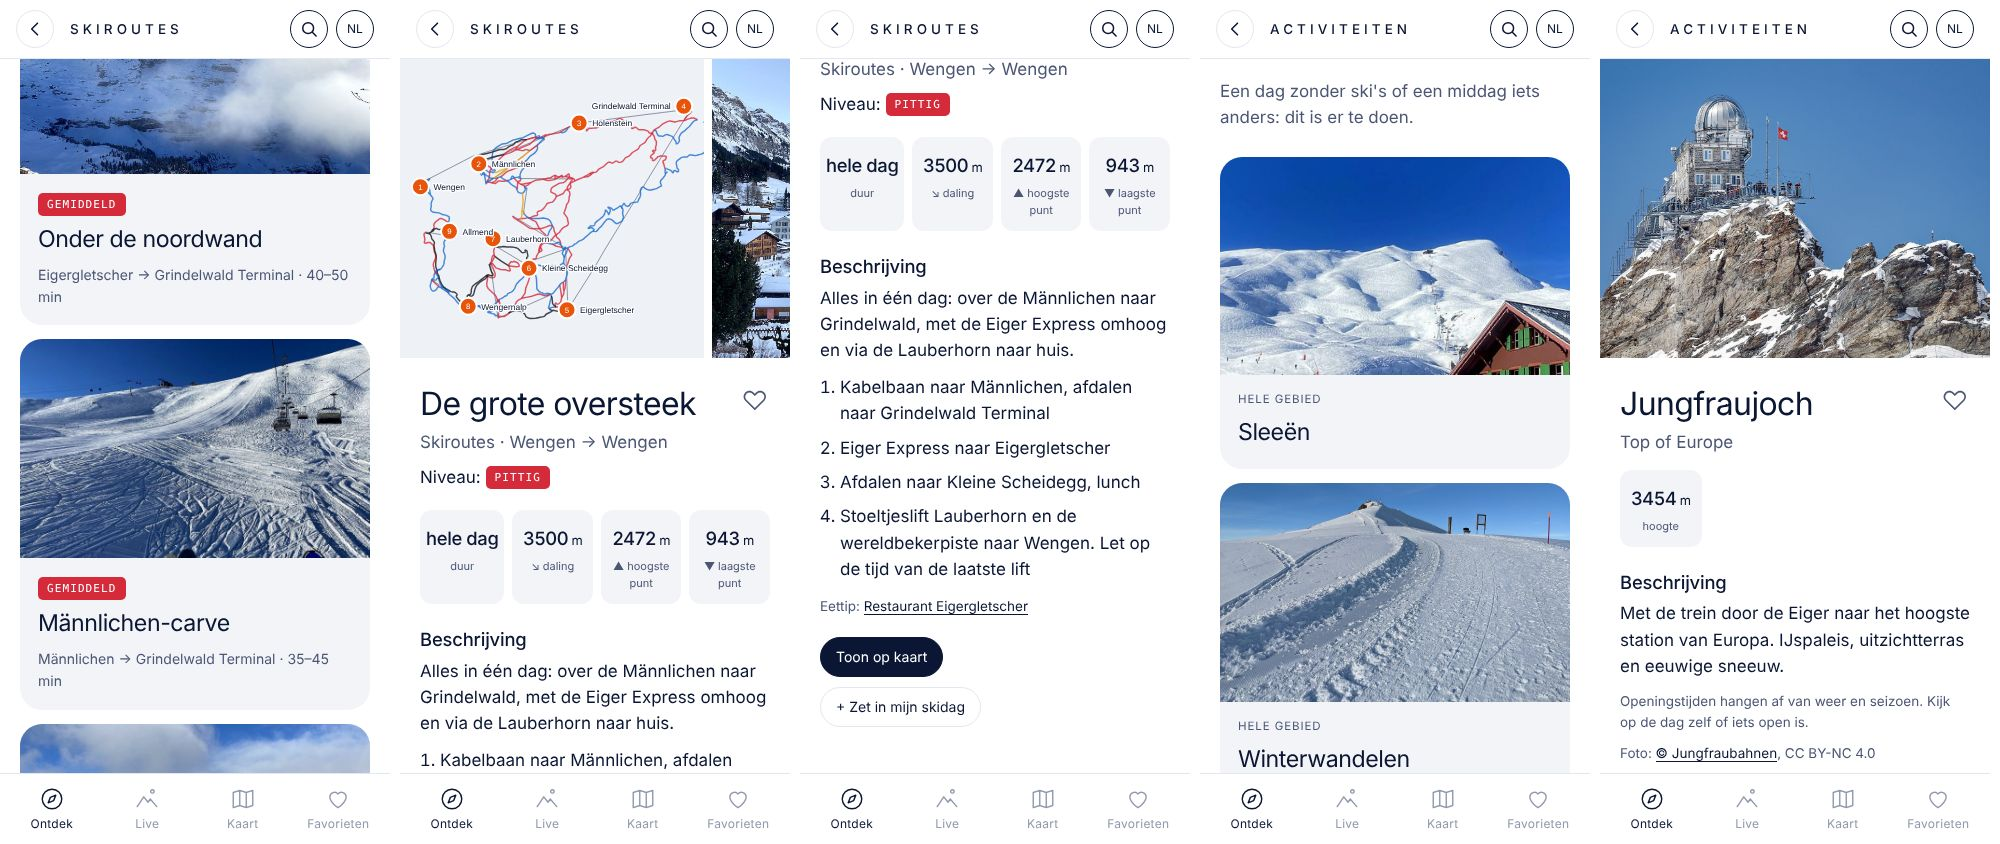
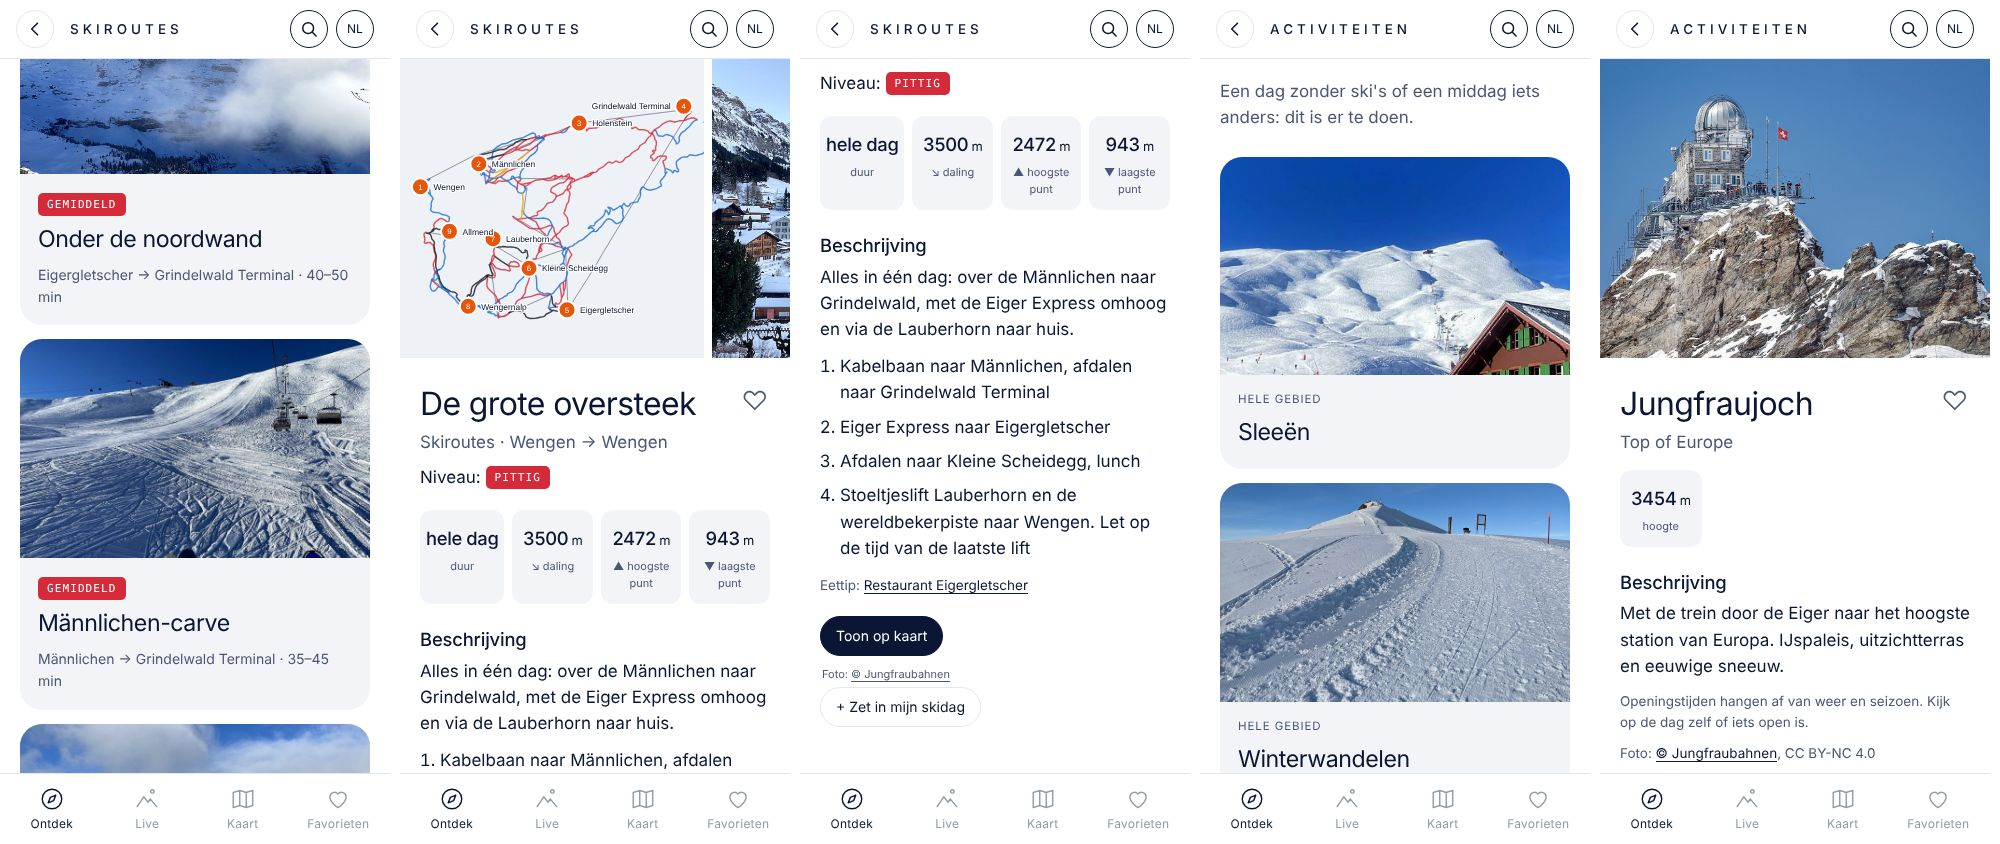
Routefoto's uit de beeldbank van de Jungfraubahnen (© Jungfraubahnen, CC BY-NC 4.0)
Claude-Session: https://claude.ai/code/session_01BKK4JeDJLrK7vcsz3SwdsN

Changed region(s): [[0.403, 0.2773, 0.589, 0.8318], [0.403, 0.0616, 0.589, 0.2464]]

diff --git a/app/index.html b/app/index.html
@@ -600,6 +600,7 @@ a{color:var(--ink)}
   <div class="chips" id="rtChips"></div>
   <div class="rprog" hidden><div class="row" style="justify-content:space-between"><span id="rpT"></span><span class="small muted" id="rpR"></span></div><div class="prog" style="margin-top:10px"><i id="rpB"></i></div></div>
   <div id="routeList"></div>
+  <p class="hcred" style="margin:14px 2px 0"><a href="https://dam.jungfrau.ch/en/terms-of-use" target="_blank" rel="noopener">© Jungfraubahnen</a></p>
   <div class="trow" style="margin-top:34px"><h3 data-i="sledH"></h3><p data-i="sledD"></p></div>
 </section>
 
@@ -846,6 +847,9 @@ setInterval(sky,60000);
 })();
 /* ---------- START ---------- */
 const IMG=window.JF_IMG||{};
+const JBR={1:'9sFTHR0s~1773045883/Lauberhorn-Abfahrt-Eiger-Moench-Jungfrau-Skifahren',2:'Mz6Y61Iz~1771509144/Kleine-Scheidegg-Skifahren-eine-Person-weit-weg-vor-Eiger-Moench-Jungfrau',3:'rV-6sLAj~1771840092/Maennlichen-Skifahren-Vater-Tochter',4:'3UlTQ8_A~1772114594/Skifahren-Maennlichen-Familie-4-Personen-jubeln',5:'3vrRBC1Z~1771846895/Muerren-Winter-Schnee-Eiger-Moench-Panorama',6:'E7ddlhD1~1770115241/BLM-Winter-sonnig-querformat-weite-Ansicht',7:'QaGAZ9EO~1770381159/Grindelwald-First-Skifahren-1-Person-mit-Eiger',8:'7ifpKhVw~1771508339/Kleine-Scheidegg-Skifahren-eine-Person-Skilift-im-Hintergrund'};
+const JBCR='<a href="https://dam.jungfrau.ch/en/terms-of-use" target="_blank" rel="noopener">© Jungfraubahnen</a>';
+function rtImg(id,attr){const loc='media/'+TP[id]+'.jpg',x=JBR[id]&&JBR[id].split('~');return x?`<img src="https://dam.media.jungfrau.ch/image/upload/s--${x[0]}--/c_limit,f_auto,h_800/v${x[1]}" onerror="this.onerror=null;this.src='${loc}'" alt="" ${attr||''}>`:`<img src="${loc}" alt="" ${attr||''}>`}
 const TP={1:'e-lauberhorn',2:'e-monch2',3:'e-sessel',4:'e-wengen2',5:'e-murrenpano',6:'e-murren',7:'e-grindelwald',8:'e-dawn'};
 const IC={pin:'<svg viewBox="0 0 24 24"><path d="M12 21s7-6.2 7-11.5A7 7 0 005 9.5C5 14.8 12 21 12 21z"/><circle cx="12" cy="9.500" r="2.5"/></svg>',heart:'<svg viewBox="0 0 24 24"><path d="M12 20s-7.5-4.6-7.5-10A4.3 4.3 0 0112 7.3 4.3 4.3 0 0119.5 10c0 5.4-7.5 10-7.5 10z"/></svg>',school:'<svg viewBox="0 0 24 24"><path d="M12 4l9 4-9 4-9-4zM7 10v5c3 2.5 7 2.5 10 0v-5M21 8v6"/></svg>',route:'<svg viewBox="0 0 24 24"><path d="M7 21c9-3-5-7 4-10s-3-6 6-8"/></svg>',eat:'<svg viewBox="0 0 24 24"><path d="M7 3v18M5 3v5a2 2 0 004 0V3M17 21V3c-2 2-3 5-3 9h3"/></svg>',car:'<svg viewBox="0 0 24 24"><path d="M5 16V11l2-5h10l2 5v5M3 16h18v2H3zM7 18v2M17 18v2M5 11h14"/></svg>',map:'<svg viewBox="0 0 24 24"><path d="M9 4L3 6v14l6-2 6 2 6-2V4l-6 2-6-2zM9 4v14M15 6v14"/></svg>',play:'<svg viewBox="0 0 24 24"><path d="M6 8h12a4 4 0 014 4v3a3 3 0 01-5.6 1.5L15 15H9l-1.4 1.5A3 3 0 012 15v-3a4 4 0 014-4zM7 11v3M5.5 12.5h3"/></svg>',ai:'<svg viewBox="0 0 24 24"><path d="M12 3l1.8 5.2L19 10l-5.2 1.8L12 17l-1.8-5.2L5 10l5.2-1.8z"/></svg>',lift:'<svg viewBox="0 0 24 24"><path d="M3 5l18-2M12 4v4M7 8h10a2 2 0 012 2v7a2 2 0 01-2 2H7a2 2 0 01-2-2v-7a2 2 0 012-2zM5 13h14"/></svg>',msg:'<svg viewBox="0 0 24 24"><path d="M4 5h16v11H9l-5 4z"/></svg>',sun:'<svg viewBox="0 0 24 24"><circle cx="12" cy="12" r="4"/><path d="M12 3v2M12 19v2M3 12h2M19 12h2M5.6 5.6l1.4 1.4M17 17l1.4 1.4M5.6 18.4L7 17M17 7l1.4-1.4"/></svg>',cal:'<svg viewBox="0 0 24 24"><path d="M4 6h16v14H4zM4 10h16M8 3v4M16 3v4"/></svg>'};
 const dots=c=>c.map(x=>`<span class="dot d-${x}"></span>`).join('');
@@ -859,7 +863,7 @@ function drawStart(){
   $('#qaLive').innerHTML=[['wx','lvWx',IC.sun],['seasonCard','lvHours',IC.cal]].map(q=>`<button class="qab" onclick="document.getElementById('${q[0]}').scrollIntoView({behavior:reduce?'auto':'smooth',block:'start'})">${q[2]}<span>${t(q[1])}</span></button>`).join('')+`<a class="qab" style="grid-column:1/-1" href="https://www.jungfrau.ch/en-gb/live/slope-data/" target="_blank" rel="noopener">${IC.msg}<span>${t('lvOff')} ↗</span></a>`;
   $('#ibar').innerHTML=[['eten',IC.eat,'qaEat'],['reis',IC.car,'qaTr'],['school',IC.school,'qaSchool'],['routes',IC.route,'qaRoutes'],['doen',IC.pin,'qaDo'],['spelen',IC.play,'tPlay']].map(q=>`<button aria-label="${esc(t(q[2]))}" onclick="show('${q[0]}',true)">${q[1]}</button>`).join('')+`<button class="qab ai" style="grid-column:1/-1" onclick="Guide.open()">${IC.ai}<span>${t('gName')}</span></button>`;
   const G={blue:'#1C6DD0',red:'#D42A3A',black:'#2B2B31'},lv=t('lv');
-  $('#tiles').innerHTML=ROUTES.map(r=>{const d=R(r.id);return `<button class="tile" onclick="openRoute(${r.id})"><img src="media/${TP[r.id]}.jpg" alt="" loading="lazy"><span class="label">${t('route')} ${r.id} · ${lv[r.lv]}</span><b>${d[0]}</b><span class="tm">${d[1]} → ${d[2]} · ${d[4]}</span></button>`}).join('');
+  $('#tiles').innerHTML=ROUTES.map(r=>{const d=R(r.id);return `<button class="tile" onclick="openRoute(${r.id})">${rtImg(r.id,'loading="lazy"')}<span class="label">${t('route')} ${r.id} · ${lv[r.lv]}</span><b>${d[0]}</b><span class="tm">${d[1]} → ${d[2]} · ${d[4]}</span></button>`}).join('');
   $('#heroSun').textContent=zt(sunTimes(Date.now())[1]);
     $('#banTravel').innerHTML=pic('village');
   $('#imgNote').hidden=!IMG.ai;
@@ -937,7 +941,7 @@ const rcol=r=>PC[r.c.slice().sort((a,b)=>HARD[b]-HARD[a])[0]];
 function drawRoutes(){
   const done=st('done',[]),lv=t('lv');
   $('#rtChips').innerHTML=[['all',t('cAll')]].concat(lv.map((x,i)=>[String(i),x])).map(c=>`<button class="chip" aria-pressed="${rtF===c[0]}" onclick="rtF='${c[0]}';drawRoutes()">${c[1]}</button>`).join('');
-  $('#routeList').innerHTML=ROUTES.filter(r=>rtF==='all'||String(r.lv)===rtF).map(r=>{const ok=done.includes(r.id),d=R(r.id);return `<button class="rcard" onclick="openRoute(${r.id})"><img src="media/${TP[r.id]}.jpg" alt="" loading="lazy"><span class="in"><span><span class="bdg" style="background:${rcol(r)}">${lv[r.lv]}</span></span><b>${d[0]}</b><span class="tm">${d[1]} → ${d[2]} · ${d[4]}</span></span></button>`}).join('');
+  $('#routeList').innerHTML=ROUTES.filter(r=>rtF==='all'||String(r.lv)===rtF).map(r=>{const ok=done.includes(r.id),d=R(r.id);return `<button class="rcard" onclick="openRoute(${r.id})">${rtImg(r.id,'loading="lazy"')}<span class="in"><span><span class="bdg" style="background:${rcol(r)}">${lv[r.lv]}</span></span><b>${d[0]}</b><span class="tm">${d[1]} → ${d[2]} · ${d[4]}</span></span></button>`}).join('');
   const k=done.length;$('#rpT').textContent=t('ofDone',{k,n:ROUTES.length});$('#rpB').style.width=(k/ROUTES.length*100)+'%';$('#rpR').textContent=t('ranks')[k]||'';
   if(rtCur&&curView==='route')drawRoute();
 }
@@ -955,13 +959,13 @@ function mmap(pts,o){o=o||{};const M=window.FIRN_MAP;if(!M||!pts.length)return''
 function miniMap(r){if(typeof NLL==='undefined')return'';return mmap(r.path.filter((x,i,a)=>NLL[x]&&a.indexOf(x)===i).map(x=>({p:NLL[x],n:N[x].n})),{num:1})}
 function openRoute(id){navSave();rtCur=id;show('route',true);drawRoute();$('#main').scrollTop=0}
 function drawRoute(){const r=ROUTES.find(x=>x.id===rtCur);if(!r)return;const d=R(r.id),lv=t('lv'),done=st('done',[]),ok=done.includes(r.id),e=EAT.find(x=>x.id===r.eat),hs=r.path.map(x=>N[x].h),fv=typeof favs==='function'&&favs().includes('r:'+r.id),dn=(String(d[3]).match(/\d[\d.,']*/)||[''])[0];
-  $('#rtDetail').innerHTML=`<div class="rmedia"><button onclick="routeOnMap(${r.id})" aria-label="${esc(t('showMap'))}">${miniMap(r)}</button><div><img src="media/${TP[r.id]}.jpg" alt=""></div></div>
+  $('#rtDetail').innerHTML=`<div class="rmedia"><button onclick="routeOnMap(${r.id})" aria-label="${esc(t('showMap'))}">${miniMap(r)}</button><div>${rtImg(r.id)}</div></div>
    <div class="rhead"><h1>${esc(d[0])}</h1><button class="heart" aria-label="♥" aria-pressed="${fv}" onclick="favTog('r:${r.id}');drawRoute()">${fv?'♥':'♡'}</button></div>
    <p class="rsub">${t('qaRoutes')} · ${esc(d[1])} → ${esc(d[2])}</p><p class="rlev">${t('rtLevel')}: <span class="bdg" style="background:${rcol(r)}">${lv[r.lv]}</span></p>
    <div class="rstats"><div><b>${esc(d[4])}</b><span>${t('rtTime')}</span></div><div><b>${dn||'–'}<small> m</small></b><span>↘ ${t('rtDown')}</span></div><div><b>${Math.max(...hs)}<small> m</small></b><span>▲ ${t('rtTop')}</span></div><div><b>${Math.min(...hs)}<small> m</small></b><span>▼ ${t('rtLow')}</span></div></div>
    <div class="rdesc"><h3>${t('rtDesc')}</h3><p>${d[5]}</p><ol>${d[6].map(x=>`<li>${x}</li>`).join('')}</ol>
    <p class="small muted" style="margin-top:14px">${t('eatTip')}: <a href="#" onclick="event.preventDefault();openEat('${e.id}')">${esc(e.n)}</a></p></div>
-   <div class="row" style="margin:20px 0 10px;gap:10px;flex-wrap:wrap"><button class="btn sm alt" onclick="routeOnMap(${r.id})">${t('showMap')}</button></div>`}
+   <div class="row" style="margin:20px 0 10px;gap:10px;flex-wrap:wrap"><button class="btn sm alt" onclick="routeOnMap(${r.id})">${t('showMap')}</button></div><p class="hcred">${t('phBy')}: ${JBCR}</p>`}
 function toggleDone(id){const d=st('done',[]).slice(),i=d.indexOf(id);i<0?d.push(id):d.splice(i,1);put('done',d);drawRoutes()}
 
 /* ---------- PISTE RADAR (gedeeld via db, anders lokaal) ---------- */
@@ -1386,7 +1390,7 @@ function drawHome(){const el=$('#home');if(!el)return;let rt;try{rt=routeToday()
   el.innerHTML=`<figure class="hhero"><img src="${jbUrl('hero')}" onerror="this.onerror=null;this.src='media/e-hero.jpg';this.nextElementSibling.hidden=true" alt=""><figcaption>Kleine Scheidegg · <a href="${JBC.u}" target="_blank" rel="noopener">${JBC.a}</a></figcaption></figure><div class="hb"><h2>${t('hmToday')}</h2><p>${today}</p><div id="nowIn"></div></div>
    ${se?`<div class="hb"><div class="hbig"><b>${se.n}</b><span>${t(se.k)}</span></div><p>Grindelwald-Wengen ${t('d1')} · Mürren-Schilthorn ${t('d2')}</p></div>`:''}
    <div class="hb"><h2>${t('hmRoute')}</h2><p>${t(rt.bad?'hmRouteBad':'hmRouteSun')}</p>
-     <button class="hcard" onclick="openRoute(${r.id})"><img src="media/${TP[r.id]}.jpg" alt="" loading="lazy"><span class="in"><span><span class="bdg" style="background:${rcol(r)}">${lv[r.lv]}</span></span><b>${esc(d[0])}</b><span class="tm">${esc(d[1])} → ${esc(d[2])} · ${esc(d[4])}</span></span></button>
+     <button class="hcard" onclick="openRoute(${r.id})">${rtImg(r.id,'loading="lazy"')}<span class="in"><span><span class="bdg" style="background:${rcol(r)}">${lv[r.lv]}</span></span><b>${esc(d[0])}</b><span class="tm">${esc(d[1])} → ${esc(d[2])} · ${esc(d[4])}</span></span></button>
      <button class="hlink" onclick="show('routes',true)">${t('hmAllR')} →</button></div>
    <div class="hb"><h2>${t('hmLunch')}</h2><div class="hlunch"><span class="label">${esc(N[e.at].n)} · ${N[e.at].h} m</span><h3>${esc(e.n)}</h3><p>${esc(ed[1])}</p><div class="row">${f&&f.ph?`<a class="btn sm alt" style="text-decoration:none" href="tel:${esc(f.ph.replace(/[^+\d]/g,''))}">${t('plCall')}</a>`:''}<button class="btn sm ${f&&f.ph?'ghost':'alt'}" onclick="openPlace('e:${e.id}')">${t('more')}</button></div></div>
      <button class="hlink" onclick="show('eten',true)">${t('hmAllE')} →</button></div>
